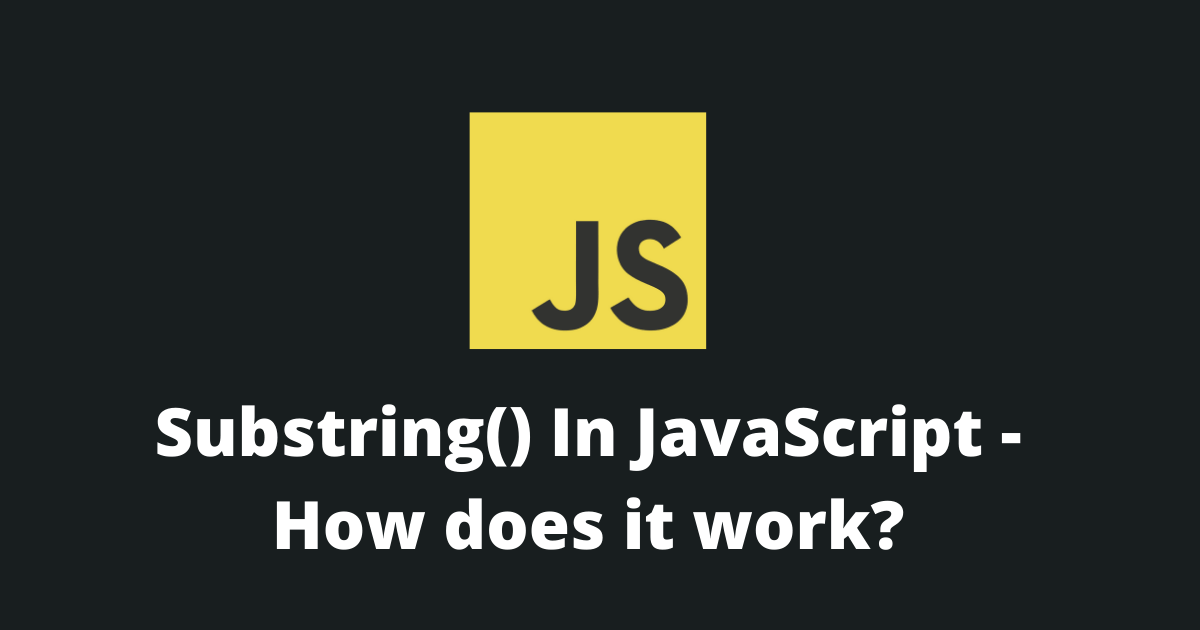
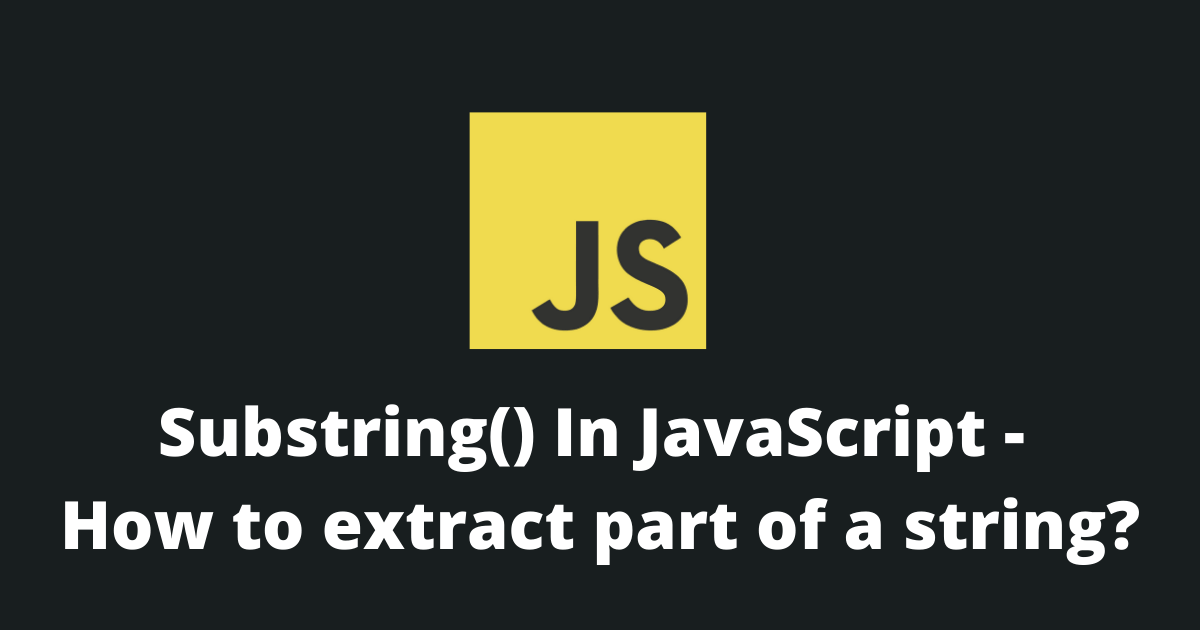
Added a lot of modifications to 2 last 2 articles

Changed region(s): [[0.0308, 0.7841, 0.9558, 0.9048], [0.1233, 0.6333, 0.8325, 0.754]]

diff --git a/public/static/markdown/blog/javascript-startswith/en.md b/public/static/markdown/blog/javascript-startswith/en.md
@@ -1,13 +1,15 @@
 ---
-title: How Does The StartsWith() Function Work In JavaScript? 
-seoTitle: How Does The StartsWith() Function Work In JavaScript? 
-openGraphImage: /static/images/blog/javascript-startswith-function/cover.png
+title: StartsWith() In JavaScript - How To Check If A String Starts With Something?
+seoTitle: StartsWith() In JavaScript - How To Check If A String Starts With Something?
+openGraphImage: /static/images/blog/javascript-startswith/cover.png
 date: 2021-11-23
 description: A guide on how does the startsWith() function work in JavaScript? Case Sensitivity, Multiple Values, Alternatives.
 author: Tim Mouskhelichvili
 ---
 
-This article will tell you everything that you need to know about the startsWith() function in JavaScript.
+In JavaScript, the easiest way to check if a string starts with something is to use the `startsWith()` function.
+
+This article will tell you everything that you need to know about this function.
 
 By the end of this guide, you will become a pro of this function and you will know:
 
@@ -15,15 +17,15 @@ By the end of this guide, you will become a pro of this function and you will kn
 2. When to use it?
 3. And, will be able to explain it to others.
 
-![JavaScript StartsWith](/static/images/blog/javascript-startswith-function/cover.png)
+![JavaScript StartsWith](/static/images/blog/javascript-startswith/cover.png)
 
 <Summary />
 
 ## Definition
 
-The startsWith function is used to determine if a string begins by a search value.
+The `startsWith()` function is used to determine if a string begins by a search value.
 
-If the string begins by the search value, it returns *true*, otherwise, it returns *false*.
+If the string begins by the search value, it returns `true`, otherwise, it returns `false`.
 
 ```javascript
 const str = "This is a very long string!";
@@ -42,7 +44,7 @@ console.log(str.startsWith('this'));
 console.log(str.startsWith('string'));
 ```
 
-This is the startsWith() function syntax: 
+This is the `startsWith()` function syntax: 
 
 ```javascript
 str.startsWith(searchValue[, startPosition])
@@ -62,11 +64,11 @@ Here are some things that you need to take into considerations:
 
 ### Return Value
 
-This method will return a *boolean*.
+This method will return a `boolean`.
 
-**true** => if the string starts with the search value.
+`true` => if the string starts with the search value.
 
-**false** => if the string doesn't start with the search value. 
+`false` => if the string doesn't start with the search value. 
 
 ## Browser Support
 
@@ -85,11 +87,11 @@ This method only works on browsers that support [ES2015](https://caniuse.com/?se
 
 [[Get the polyfill here]](#how-to-fix-startswith-is-not-a-function)
 
-![JavaScript StartsWith Internet Explorer](/static/images/blog/javascript-startswith-function/internet.jpg)
+![JavaScript StartsWith Internet Explorer](/static/images/blog/javascript-startswith/internet.jpg)
 
-## How to make the startsWith() function case insensitive?
+## How to make the `startsWith()` function case insensitive?
 
-To make the startsWith function case insensitive you will need to make both the value and the searchValue lowercase.
+To make the `startsWith()` function case insensitive you will need to make both the value and the searchValue lowercase.
 
 ```javascript
 const str = "This is a very long string!".toLowerCase();
@@ -101,7 +103,7 @@ console.log(str.startsWith(searchValue));
 
 Alternatively, you can use [the regex method](#how-to-check-if-a-string-starts-with-another-using-a-regex) with the "i" modifier.
 
-## How to use the startsWith() function with multiple values?
+## How to use the `startsWith()` function with multiple values?
 
 When you need to check if a string starts with either of multiple values, you can check it in two ways.
 
@@ -114,7 +116,7 @@ const str = "This is a very long string!";
 console.log(str.startsWith('This') || str.startsWith('String'));
 ```
 
-2. The Array Way, by using the some() function to iterate thought the array.
+2. The Array Way, by using the `some()` function to iterate thought the array.
 
 ```javascript
 const str = "This is a very long string!";
@@ -123,7 +125,7 @@ const str = "This is a very long string!";
 console.log(['This', 'String'].some(word => str.startsWith(word)));
 ```
 
-## How to fix "startsWith() is not a function"?
+## How to fix "`startsWith()` is not a function"?
 
 There are two main methods to fix this error. 
 
@@ -133,7 +135,7 @@ There are two main methods to fix this error.
 console.log(String(unknownValue).startsWith("This"));
 ```
 
-2. You need to make sure your browser (or nodeJS) supports ES2015. If your environment doesn't support the new EcmaScript you will need to use add this polyfill before calling the startsWith() function.
+2. You need to make sure your browser (or nodeJS) supports ES2015. If your environment doesn't support the new EcmaScript you will need to use add this polyfill before calling the `startsWith()` function.
 
 ```javascript
 if (!String.prototype.startsWith) {
@@ -145,17 +147,17 @@ if (!String.prototype.startsWith) {
 }
 ```
 
-## Are there alternatives to the startsWith() function?
+## Are there alternatives to the `startsWith()` function?
 
-Of course. There are a lot of alternatives to the startsWith function. 
+Of course. There are a lot of alternatives to the `startsWith()` function. 
 
-<u>You can use the indexOf() function, the substring() function or a regex.</u>
+You can use the `indexOf()` function, the `substring()` function or a regex.
 
-#### 1. How to check if a string starts with another using indexOf()?
+#### 1. How to check if a string starts with another using `indexOf()`?
 
-You can get the same behavior as the startsWith() function by using the indexOf() function. 
+You can get the same behavior as the `startsWith()` function by using the `indexOf()` function. 
 
-To replicate the startsWith() function, you will need to check if indexOf() return position is 0.
+To replicate the `startsWith()` function, you will need to check if `indexOf()` return position is 0.
 
 ```javascript
 const str = "This is a very long string!";
@@ -167,9 +169,9 @@ console.log(str.indexOf("This") === 0);
 console.log(str.startsWith('This'));
 ```
 
-#### 2. How to check if a string starts with another using substring()?
+#### 2. How to check if a string starts with another using `substring()`?
 
-You can check if a string starts with your search value by using the function substring with the length of the search value.
+You can check if a string starts with your search value by using the function `substring()` with the length of the search value.
 
 This method is a little more complicated.
 
@@ -202,8 +204,8 @@ console.log(str.startsWith('This'));
 
 ## Conclusion
 
-Now that you are a pro of the startsWith() function in JavaScript, please share this article with others so they too can become a pro just like you. 
+Now that you are a pro of the `startsWith()` function in JavaScript, please share this article with others so they too can become a pro just like you. 
 
-![JavaScript StartsWith Pro](/static/images/blog/javascript-startswith-function/pro.jpg)
+![JavaScript StartsWith Pro](/static/images/blog/javascript-startswith/pro.jpg)
 
 Thanks for reading.

diff --git a/public/static/markdown/blog/javascript-substring/en.md b/public/static/markdown/blog/javascript-substring/en.md
@@ -1,11 +1,13 @@
 ---
-title: Substring() In JavaScript - How does it work? 
-seoTitle: Substring() In JavaScript - How does it work? 
+title: Substring() In JavaScript - How to extract part of a string?
+seoTitle: Substring() In JavaScript - How to extract part of a string?
 openGraphImage: /static/images/blog/javascript-substring/cover.png
 date: 2021-11-29
 description: A guide on how does the substring() function work in JavaScript? Definition. Substring vs slice vs substr.
 author: Tim Mouskhelichvili
 ---
+
+In JavaScript, to extract part of a string, you need to use the `substring()` function, or one of its alternatives.
 
 You may know the `substring()` function, but do you know everything about it? 
 
@@ -238,6 +240,10 @@ Here is a table with all the differences.
 | Negative Values | Transforms to ZERO | Reads from the end | Reads from the end |
 | 1st parameter greater than 2nd | Will swap parameters | Will return an empty string | Will return an empty string |
 | Deprecated | NO | YES | NO |
+
+Do not forget that the `substr()` function is *deprecated*.
+
+![JavaScript Substr](/static/images/blog/javascript-substring/4.jpg)
 
 ## Final Thoughts
 
